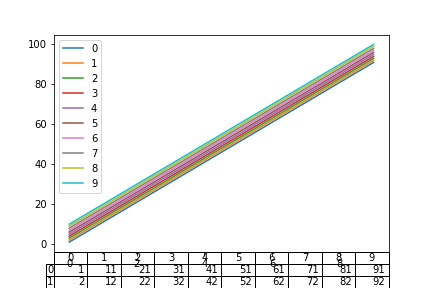
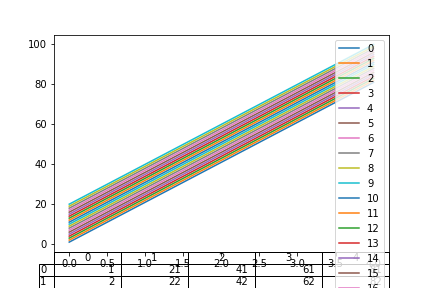
working template now

diff --git a/document/tables/testtable.tex b/document/tables/testtable.tex
@@ -1,13 +1,12 @@
-\begin{tabular}{lrrrrrrrrrr}
- & 0 & 1 & 2 & 3 & 4 & 5 & 6 & 7 & 8 & 9 \\
-0 & 1 & 2 & 3 & 4 & 5 & 6 & 7 & 8 & 9 & 10 \\
-1 & 11 & 12 & 13 & 14 & 15 & 16 & 17 & 18 & 19 & 20 \\
-2 & 21 & 22 & 23 & 24 & 25 & 26 & 27 & 28 & 29 & 30 \\
-3 & 31 & 32 & 33 & 34 & 35 & 36 & 37 & 38 & 39 & 40 \\
-4 & 41 & 42 & 43 & 44 & 45 & 46 & 47 & 48 & 49 & 50 \\
-5 & 51 & 52 & 53 & 54 & 55 & 56 & 57 & 58 & 59 & 60 \\
-6 & 61 & 62 & 63 & 64 & 65 & 66 & 67 & 68 & 69 & 70 \\
-7 & 71 & 72 & 73 & 74 & 75 & 76 & 77 & 78 & 79 & 80 \\
-8 & 81 & 82 & 83 & 84 & 85 & 86 & 87 & 88 & 89 & 90 \\
-9 & 91 & 92 & 93 & 94 & 95 & 96 & 97 & 98 & 99 & 100 \\
+\begin{table}
+\caption{nice}
+\label{TestTable1}
+\begin{tabular}{lrrrrrrrrrrrrrrrrrrrr}
+ & 0 & 1 & 2 & 3 & 4 & 5 & 6 & 7 & 8 & 9 & 10 & 11 & 12 & 13 & 14 & 15 & 16 & 17 & 18 & 19 \\
+0 & 1 & 2 & 3 & 4 & 5 & 6 & 7 & 8 & 9 & 10 & 11 & 12 & 13 & 14 & 15 & 16 & 17 & 18 & 19 & 20 \\
+1 & 21 & 22 & 23 & 24 & 25 & 26 & 27 & 28 & 29 & 30 & 31 & 32 & 33 & 34 & 35 & 36 & 37 & 38 & 39 & 40 \\
+2 & 41 & 42 & 43 & 44 & 45 & 46 & 47 & 48 & 49 & 50 & 51 & 52 & 53 & 54 & 55 & 56 & 57 & 58 & 59 & 60 \\
+3 & 61 & 62 & 63 & 64 & 65 & 66 & 67 & 68 & 69 & 70 & 71 & 72 & 73 & 74 & 75 & 76 & 77 & 78 & 79 & 80 \\
+4 & 81 & 82 & 83 & 84 & 85 & 86 & 87 & 88 & 89 & 90 & 91 & 92 & 93 & 94 & 95 & 96 & 97 & 98 & 99 & 100 \\
 \end{tabular}
+\end{table}

diff --git a/code/table_figure_maker_test.py b/code/table_figure_maker_test.py
@@ -2,8 +2,8 @@
 import pandas as pd
 import numpy as np
 
-df = pd.DataFrame(np.arange(1,101).reshape(10,10))
+df = pd.DataFrame(np.arange(1,101).reshape(5,20))
 df
-df.style.to_latex('../document/tables/testtable.tex',)
-df.plot(table=True).get_figure().savefig('../document/figures/testfig.png',Label="Test Table 1")
+df.style.to_latex('../document/tables/testtable.tex',label="TestTable1",caption='nice')
+df.plot(table=True).get_figure().savefig('../document/figures/testfig.png')
 # %%

diff --git a/document/chapters/ch1.tex b/document/chapters/ch1.tex
@@ -1,13 +1,13 @@
 \chapter{Nice}
 test test test \cite{gijonmanchenoMappingMangroveOpportunities2021}
 
-\input{\tablepath testtable.tex}
+\input{tables/testtable.tex}
 
 
 
 \begin{figure}[htbp]
   \centering
-  \includegraphics[]{../figures/testfig.png}
+  \includegraphics[]{figures/testfig.png}
   \caption{Testing out the figures}
   \label{testfig}
 \end{figure}

diff --git a/document/report-numbered.tex b/document/report-numbered.tex
@@ -1,4 +1,4 @@
-\documentclass[a4paper]{book}
+\documentclass[a4paper,oneside]{book}
 
 \usepackage{amsmath}
 \usepackage{siunitx}
